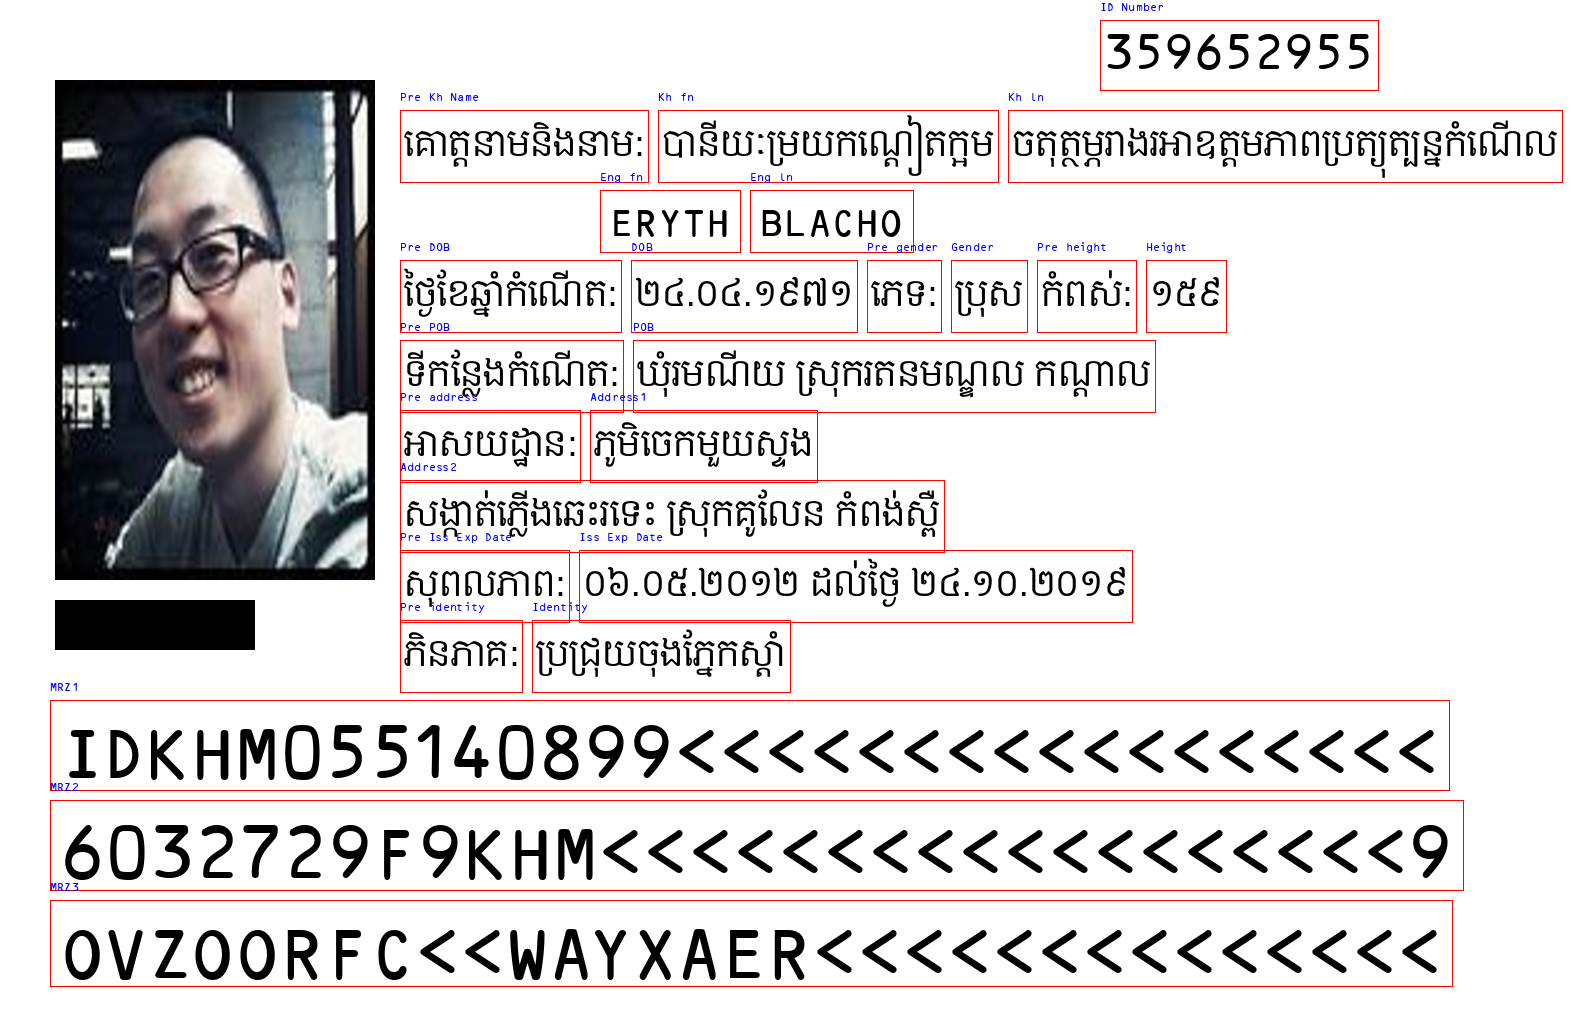
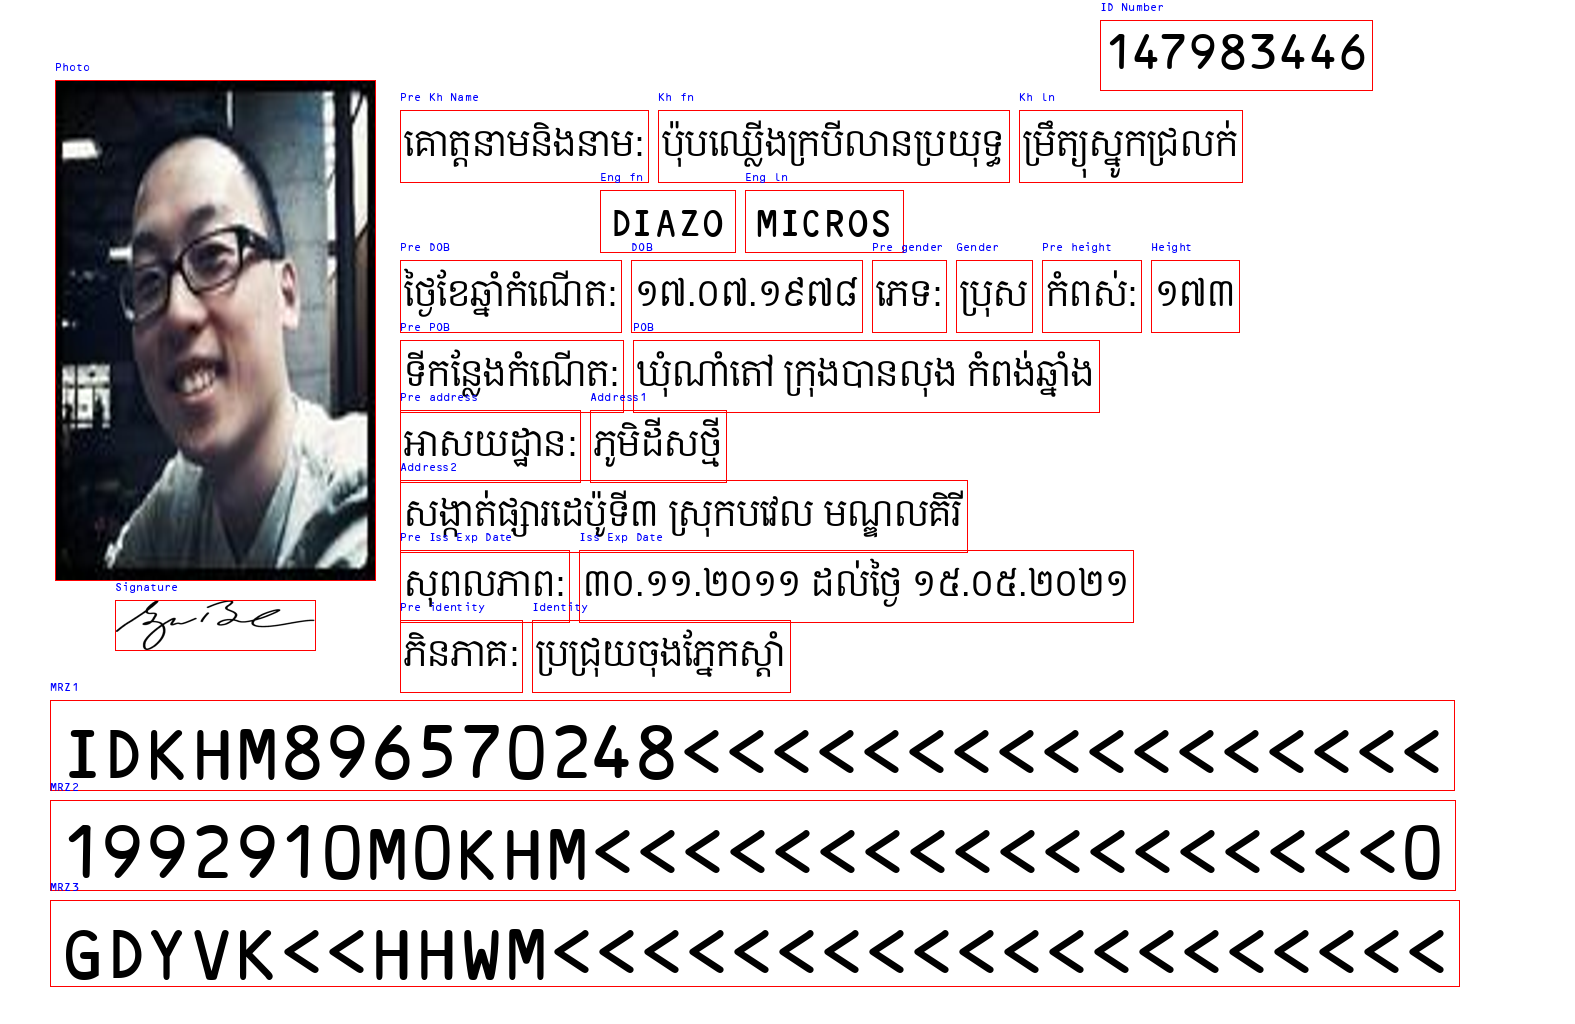
feat: add signature and photo bbox

diff --git a/synth-khmerID/segm_generate_khmerID.py b/synth-khmerID/segm_generate_khmerID.py
@@ -19,46 +19,9 @@ from utils import (
 )
 from pykhmernlp.number import to_khmer_num
 
+# Define functions first
 def load_font(path, size):
     return ImageFont.truetype(path, size) if os.path.exists(path) else ImageFont.load_default()
-
-# Define the font paths and sizes
-font_bokor_path = "fonts/ocr_b.ttf"
-font_content_bold_path = "fonts/content_bold.ttf"
-font_dejavu_path = "fonts/DejaVuSansMono.ttf"
-font_khmeros_path = "fonts/Khmer OS Content.ttf"
-font_khmer_moul_path = "fonts/khmer_moul.ttf"
-font_ocrb_path = "fonts/ocr_b.ttf"
-
-font_size = 12
-label_font_size = 12  # Define the size for label text
-font_bokor = ImageFont.truetype(font_bokor_path, font_size)
-font_content_bold = ImageFont.truetype(font_content_bold_path, 55)
-font_dejavu = ImageFont.truetype(font_dejavu_path, font_size)
-font_khmeros = ImageFont.truetype(font_khmeros_path, font_size)
-font_khmer_moul = ImageFont.truetype(font_khmer_moul_path, font_size)
-font_ocrb = ImageFont.truetype(font_ocrb_path, font_size)
-
-mrz_font = ImageFont.truetype(font_ocrb_path, 50)
-
-width, height = 1575, 1024
-image = Image.new('RGB', (width, height), 'white')
-draw = ImageDraw.Draw(image)
-
-# Flags to control drawing of bounding boxes and labels
-DRAW_BBOX = 1  # Set to False to disable bounding boxes
-DRAW_LABEL = 1  # Set to False to disable labels
-
-photo_path = get_random_image_path("./photos")
-if photo_path:
-    photo = Image.open(photo_path).resize((320, 500))
-    image.paste(photo, (55, 80))
-
-signature_path = get_random_image_path("./signatures")
-if signature_path:
-    signature = Image.open(signature_path).resize((200, 50))
-    # Place signature below the photo (aligned with photo's left edge at x=55, below y=580)
-    image.paste(signature, (55, 600))
 
 def draw_bbox(draw, x1, y1, text, font, label):
     ascent, descent = font.getmetrics()
@@ -109,22 +72,78 @@ bbox_data = {"id_card": []}
 def add_bbox_data(bbox_id, x1, y1, x2, y2, text):
     bbox_data["id_card"].append({bbox_id: {"bbox": {"x1": x1, "y1": y1, "x2": x2, "y2": y2}, "text": text}})
 
-text_id_num = generate_id_number()
-khmer_name = generate_khmer_name()
-english_name = generate_english_name()
-dob = generate_dob()
-gender = generate_gender()
-height_val = generate_height()
-pob = generate_place_of_birth()
-address1 = generate_address_1()
-address2 = generate_address_2()
-issue_date, expiry_date = generate_issue_and_expiry_dates()
-identity = "ប្រជ្រុយចុងភ្នែកស្តាំ"
-mrz1 = generate_mrz_1()
-mrz2 = generate_mrz_2()
-mrz3 = generate_mrz_3()
+# Define the font paths and sizes
+font_bokor_path = "fonts/ocr_b.ttf"
+font_content_bold_path = "fonts/content_bold.ttf"
+font_dejavu_path = "fonts/DejaVuSansMono.ttf"
+font_khmeros_path = "fonts/Khmer OS Content.ttf"
+font_khmer_moul_path = "fonts/khmer_moul.ttf"
+font_ocrb_path = "fonts/ocr_b.ttf"
+
+font_size = 12
+label_font_size = 12  # Define the size for label text
+font_bokor = ImageFont.truetype(font_bokor_path, font_size)
+font_content_bold = ImageFont.truetype(font_content_bold_path, 55)
+font_dejavu = ImageFont.truetype(font_dejavu_path, font_size)
+font_khmeros = ImageFont.truetype(font_khmeros_path, font_size)
+font_khmer_moul = ImageFont.truetype(font_khmer_moul_path, font_size)
+font_ocrb = ImageFont.truetype(font_ocrb_path, font_size)
+
+mrz_font = ImageFont.truetype(font_ocrb_path, 50)
+
+width, height = 1575, 1024
+image = Image.new('RGB', (width, height), 'white')
+draw = ImageDraw.Draw(image)
+
+# Flags to control drawing of bounding boxes and labels
+DRAW_BBOX = 1  # Set to False to disable bounding boxes
+DRAW_LABEL = 1  # Set to False to disable labels
+
+def draw_photo(image, draw):
+    photo_path = get_random_image_path("./photos")
+    if photo_path:
+        try:
+            photo = Image.open(photo_path).resize((320, 500)).convert('RGB')
+            x1, y1 = 55, 80
+            x2, y2 = x1 + 320, y1 + 500
+            image.paste(photo, (x1, y1))
+            if DRAW_LABEL:
+                label_font = load_font(font_bokor_path, label_font_size)
+                draw.text((x1, y1 - 20), "Photo", font=label_font, fill="blue")
+            if DRAW_BBOX:
+                draw.rectangle([x1, y1, x2, y2], outline="red")
+            add_bbox_data("photo", x1, y1, x2, y2, "Photo")
+        except Exception as e:
+            print(f"Error loading photo: {e}")
+
+def draw_signature(image, draw):
+    signature_path = get_random_image_path("./signatures")
+    if signature_path:
+        try:
+            signature = Image.open(signature_path).resize((200, 50))
+            sig_x = 115
+            sig_y = 600 if signature.mode == 'RGBA' else 580
+            sig_width, sig_height = 200, 50
+            bbox = [sig_x, sig_y, sig_x + sig_width, sig_y + sig_height]
+            if signature.mode == 'RGBA':
+                image.paste(signature.convert('RGBA'), (sig_x, sig_y), signature.split()[3])
+            else:
+                image.paste(signature.convert('RGB'), (sig_x, sig_y))
+            if DRAW_LABEL:
+                label_font = load_font(font_bokor_path, label_font_size)
+                draw.text((sig_x, sig_y - 20), "Signature", font=label_font, fill="blue")
+            if DRAW_BBOX:
+                draw.rectangle(bbox, outline="red")
+            add_bbox_data("signature", sig_x, sig_y, sig_x + sig_width, sig_y + sig_height, "Signature")
+        except Exception as e:
+            print(f"Error loading signature: {e}")
+    else:
+        print(f"Signature file not found at: {signature_path}")
 
 def draw_segments():
+    draw_photo(image, draw)
+    draw_signature(image, draw)
+
     font_id_num = load_font(font_bokor_path, 50)
     x1, y1 = 1100, 20
     x2, y2 = draw_bbox(draw, x1, y1, text_id_num, font_id_num, "ID Number")
@@ -225,8 +244,21 @@ def draw_segments():
     x2, y2 = draw_bbox_mrz(draw, x1, y1, mrz3, font_mrz, "MRZ3")
     add_bbox_data("mrz3", x1, y1, x2, y2, mrz3)
 
-    add_bbox_data("photo", 55, 80, 375, 580, "Photo")
-    add_bbox_data("signature", 55, 600, 255, 650, "Signature")  # Updated signature bbox
+# Generate data
+text_id_num = generate_id_number()
+khmer_name = generate_khmer_name()
+english_name = generate_english_name()
+dob = generate_dob()
+gender = generate_gender()
+height_val = generate_height()
+pob = generate_place_of_birth()
+address1 = generate_address_1()
+address2 = generate_address_2()
+issue_date, expiry_date = generate_issue_and_expiry_dates()
+identity = "ប្រជ្រុយចុងភ្នែកស្តាំ"
+mrz1 = generate_mrz_1()
+mrz2 = generate_mrz_2()
+mrz3 = generate_mrz_3()
 
 draw_segments()
 image.save('output_image_segm.png')
